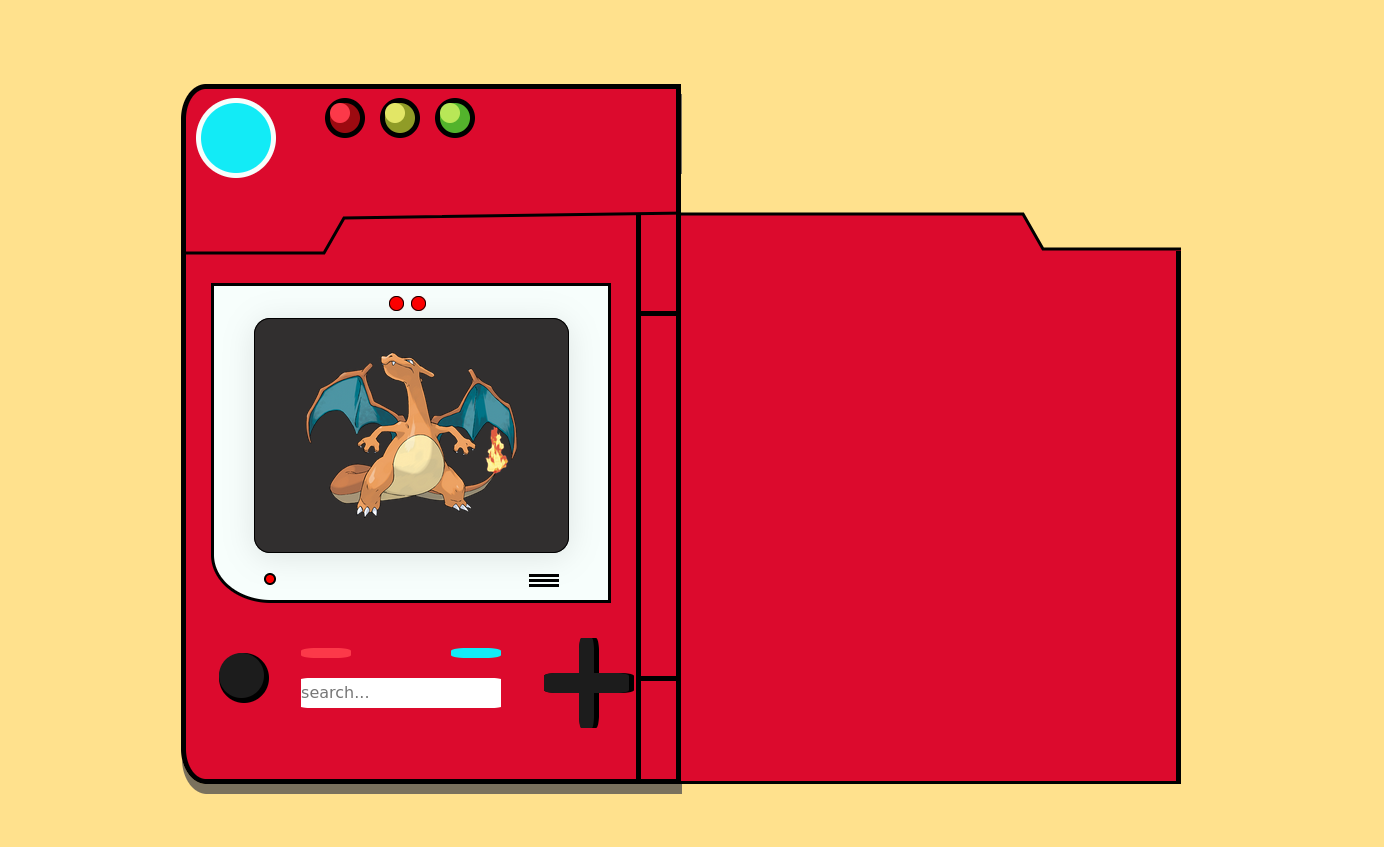
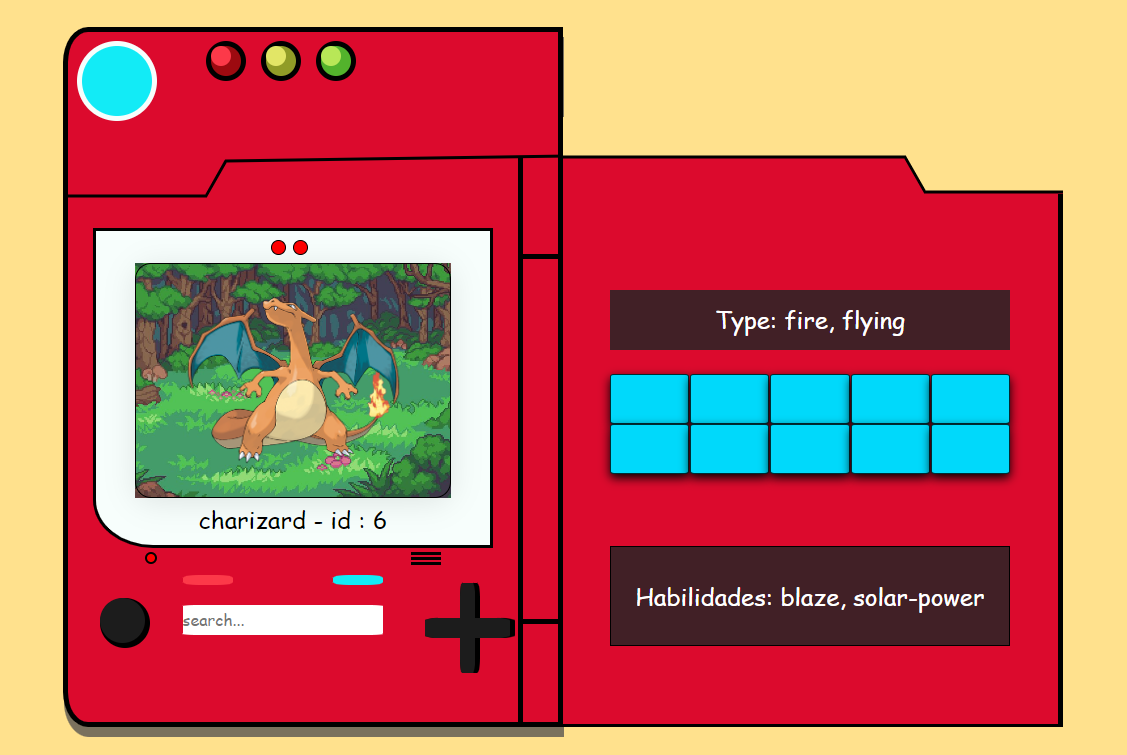
Mostra mais informacoes(habilidades,tipo) algumas mudancas no css

diff --git a/style.css b/style.css
@@ -14,12 +14,14 @@
   --bolinha-verde: #b8e757;
 }
 
+@import url('https://fonts.googleapis.com/css2?family=Amatic+SC&display=swap');
+
 * {
   margin: 0;
   padding: 0;
   box-sizing: border-box;
-  font-size: 20px;
-  font-family: 'Yapix', sans-serif;                             
+  font-size: 24px;
+  font-family: 'Amatic SC', cursive;                            
 }
 
 .container {
@@ -69,6 +71,57 @@ polyline{background-color: var(--background);}
   border-right: 5px solid var(--black);
   position: absolute;
   bottom: 0;
+}
+
+#nome{
+  text-align: center;
+  padding-top: 5px;
+}
+
+#divInfo{
+  width: 400px;
+  height: 60px;
+  margin: auto auto;
+  margin-top: 4rem;
+  background: rgba(38, 36, 36, 0.85);
+  color: white;
+  font-weight: 500;
+  display: flex;
+  justify-content: center;
+  align-items: center; 
+}
+
+#abilities{
+  color: white;
+  display: flex;
+  justify-content: center;
+  align-items: center; 
+  width: 400px;
+  height: 100px;
+  margin: auto auto;
+  border: 1px solid black;
+  margin-top: 3rem;
+  background: rgba(38, 36, 36, 0.85);
+
+}
+
+.grid-item {
+  background-color: #00d9fb;
+  border-radius: 5%;
+  border: 1px solid rgba(0, 0, 0, 0.8);
+  box-shadow: 0px 4px 10px rgba(0, 0, 0, 1);
+
+}
+
+
+#botoesAzuis{
+  display: grid;
+  gap: 0.3%;
+  grid-template-columns: auto auto auto auto auto;
+  width: 400px;
+  height: 100px;
+  margin: auto auto;
+  margin-top: 5%;
 }
 
 .secundaria {
@@ -176,6 +229,9 @@ polyline{background-color: var(--background);}
   background-color: var(--sombra);
 }
 
+.pesquisar-container{
+  padding-bottom: 1.5rem;
+}
 
 
 .mini-light {
@@ -187,16 +243,25 @@ polyline{background-color: var(--background);}
   background-color: var(--red);
 }
 
-.main-screen{
+#ada{
   height: 100%;
   width: 80%;
+  justify-self: center;
+  background-image: url(images/background.jpg);
+  z-index: 0;
+  background-size: cover;
+  background-repeat: no-repeat;
+  background-position: center;
+}
+
+.main-screen{
+  height: 100%;
+  width: 100%;
   border: 1px solid var(--black);
   justify-self: center;
-  background: rgba(38, 36, 36, 0.95);
+ /* background: rgba(38, 36, 36, 0.75); */
   border-radius: 16px;
   box-shadow: 0 4px 30px rgba(0, 0, 0, 0.1);
-  backdrop-filter: blur(16.2px);
-  -webkit-backdrop-filter: blur(16.2px);
   background-image: url(https://assets.pokemon.com/assets/cms2/img/pokedex/full/001.png);
   background-size: contain;
   background-repeat: no-repeat;

diff --git a/script.js b/script.js
@@ -1,35 +1,9 @@
-function abrirFechar() {
-  // Seleciona a div secundária pelo ID
-  const divSecundaria = document.getElementById("divSecundaria");
 
-  // Verifica se a div secundária possui a classe "fechar"
-  if (divSecundaria.classList.contains("fechar")) {
-    // Remove a classe "fechar" e adiciona a classe "abrir"
-    divSecundaria.classList.remove("fechar");
-    divSecundaria.classList.add("abrir");
-  } else {
-    // Remove a classe "abrir" e adiciona a classe "fechar"
-    divSecundaria.classList.remove("abrir");
-    divSecundaria.classList.add("fechar");
-  }
-
-  // Seleciona as polylines pelos seletores
-  const polylineAbrir = document.querySelector(".polyline-abrir");
-  const polylineFechar = document.querySelector(".polyline-fechar");
-
-  setTimeout(() => {
-    // Alterna o fill de acordo com o estado atual
-    if (polylineAbrir.style.fill === "rgb(220, 10, 45)") {
-      polylineAbrir.style.fill = "#FFE18D";
-      polylineFechar.style.fill = "none";
-    } else {
-      polylineAbrir.style.fill = "rgb(220, 10, 45)";
-      polylineFechar.style.fill = "none";
-    }
-  }, 490);
-}
 
 const imageScreen = document.querySelector('.main-screen'); // Seleciona o elemento com a classe 'main-screen'
+const nameScreen = document.querySelector('#nome');
+const typeScreen = document.querySelector('#info');
+const abilitiesScreen = document.querySelector('#abilities');
 
 const getPokemonData = (pokemon) => {
   console.log(pokemon);
@@ -38,8 +12,11 @@ const getPokemonData = (pokemon) => {
       .then((data) => {
           const id = String(data.id).padStart(3, '0'); // Formata o ID com três dígitos preenchidos com zeros à esquerda
           imageScreen.style.backgroundImage = `url('https://assets.pokemon.com/assets/cms2/img/pokedex/full/${id}.png')`;
-          //nameScreen.innerHTML = data.name;
-          //typeScreen.innerHTML = data.types[0].type.name;
+          nameScreen.innerHTML = data.name + " -  id : " + data.id;
+          let types = data.types.map(typeObj => typeObj.type.name); // Extrai os nomes dos tipos
+          typeScreen.innerHTML = "Type: " + types.join(", ");
+          let abilities = data.abilities.map(typeObj => typeObj.ability.name);
+          abilitiesScreen.innerHTML = "Habilidades: " + abilities.join(", ")
           //idScreen.innerHTML = `#${data.id}`;
 
           inputField.value = '';

diff --git a/index.html b/index.html
@@ -43,9 +43,12 @@
                         <div class="mini-light"></div>
                         <div class="mini-light"></div>
                     </div>
-                    <div class="main-screen">
- 
+                    <div id="ada">
+                       <div class="main-screen">
+                        
+                       </div>
                     </div>
+                    <p id="nome"></p>
                     <div class="bottom-screen-lights">
                         <div class="small-light">
                         </div>
@@ -90,7 +93,7 @@
 
 
 
-        <div class="secundaria aberta" id="divSecundaria" onclick="abrirFechar()">
+        <div class="secundaria aberta" id="divSecundaria">
             <div class="empty-container">
                 <svg height="100" width="500" class="right-svg">
                     <polyline class="polyline-abrir" points="500,75 362,75 342,40 0,40 0,0 500,0 500,75"
@@ -99,10 +102,27 @@
                         style="fill: none; stroke: black; stroke-width: 3;">
                     </polyline>
                 </svg>
-
             </div>
             <div id="teste">
+                <div id="divInfo">
+                    <p id="info"></p>
+                </div>
+                <div id="botoesAzuis"> 
+                    <div class="grid-item"></div>
+                    <div class="grid-item"></div>
+                    <div class="grid-item"></div>
+                    <div class="grid-item"></div>
+                    <div class="grid-item"></div>
+                    <div class="grid-item"></div>
+                    <div class="grid-item"></div>
+                    <div class="grid-item"></div>
+                    <div class="grid-item"></div>
+                    <div class="grid-item"></div>
+                </div>
 
+                <div id="abilities">
+
+                </div>
             </div>
         </div>
 

diff --git a/README.md b/README.md
@@ -13,8 +13,8 @@ I developed this Pokedex application as a personal project to improve my skills 
 
 ## To-Do List 📋
 
-1. Display More Pokemon Information
-2. Apply final touches to CSS styling.
+1. Display More Pokemon Information ✅
+2. Apply final touches to CSS styling. ✅
 3. Add a "Random Pokemon" button
 
 ## Technologies Used 🖥
